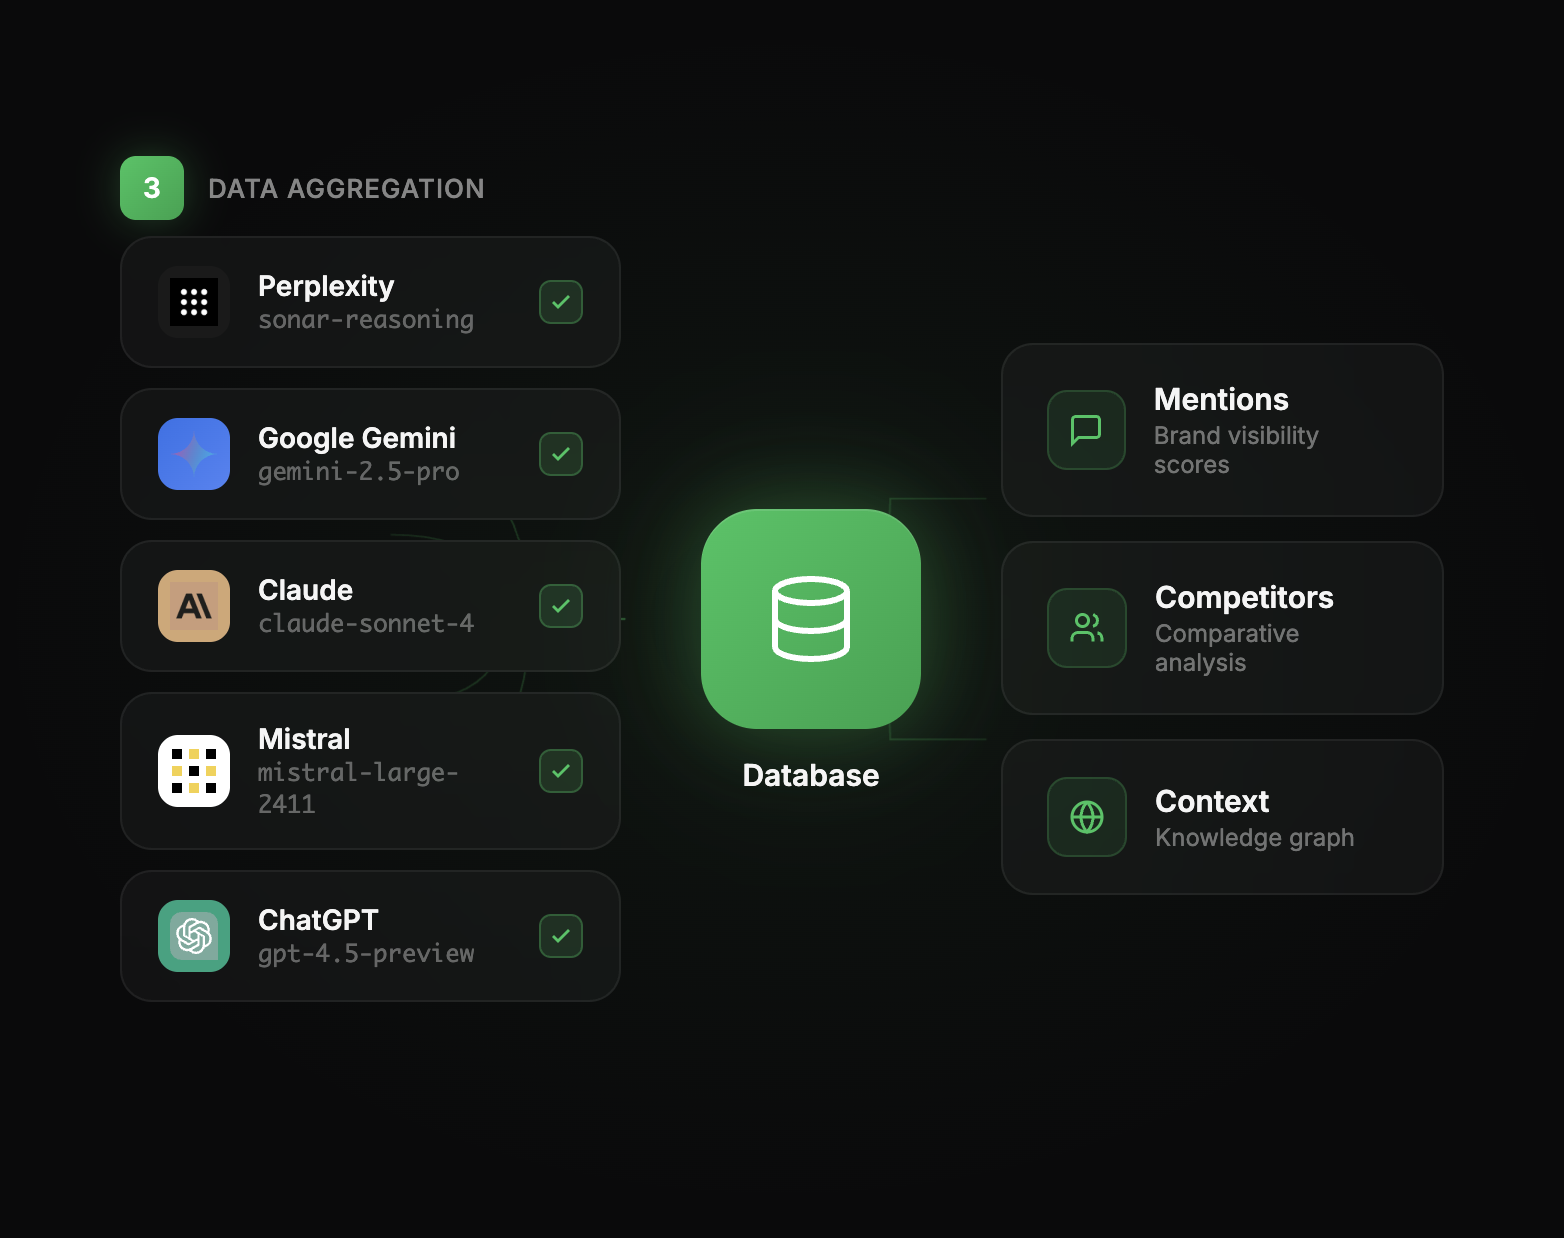
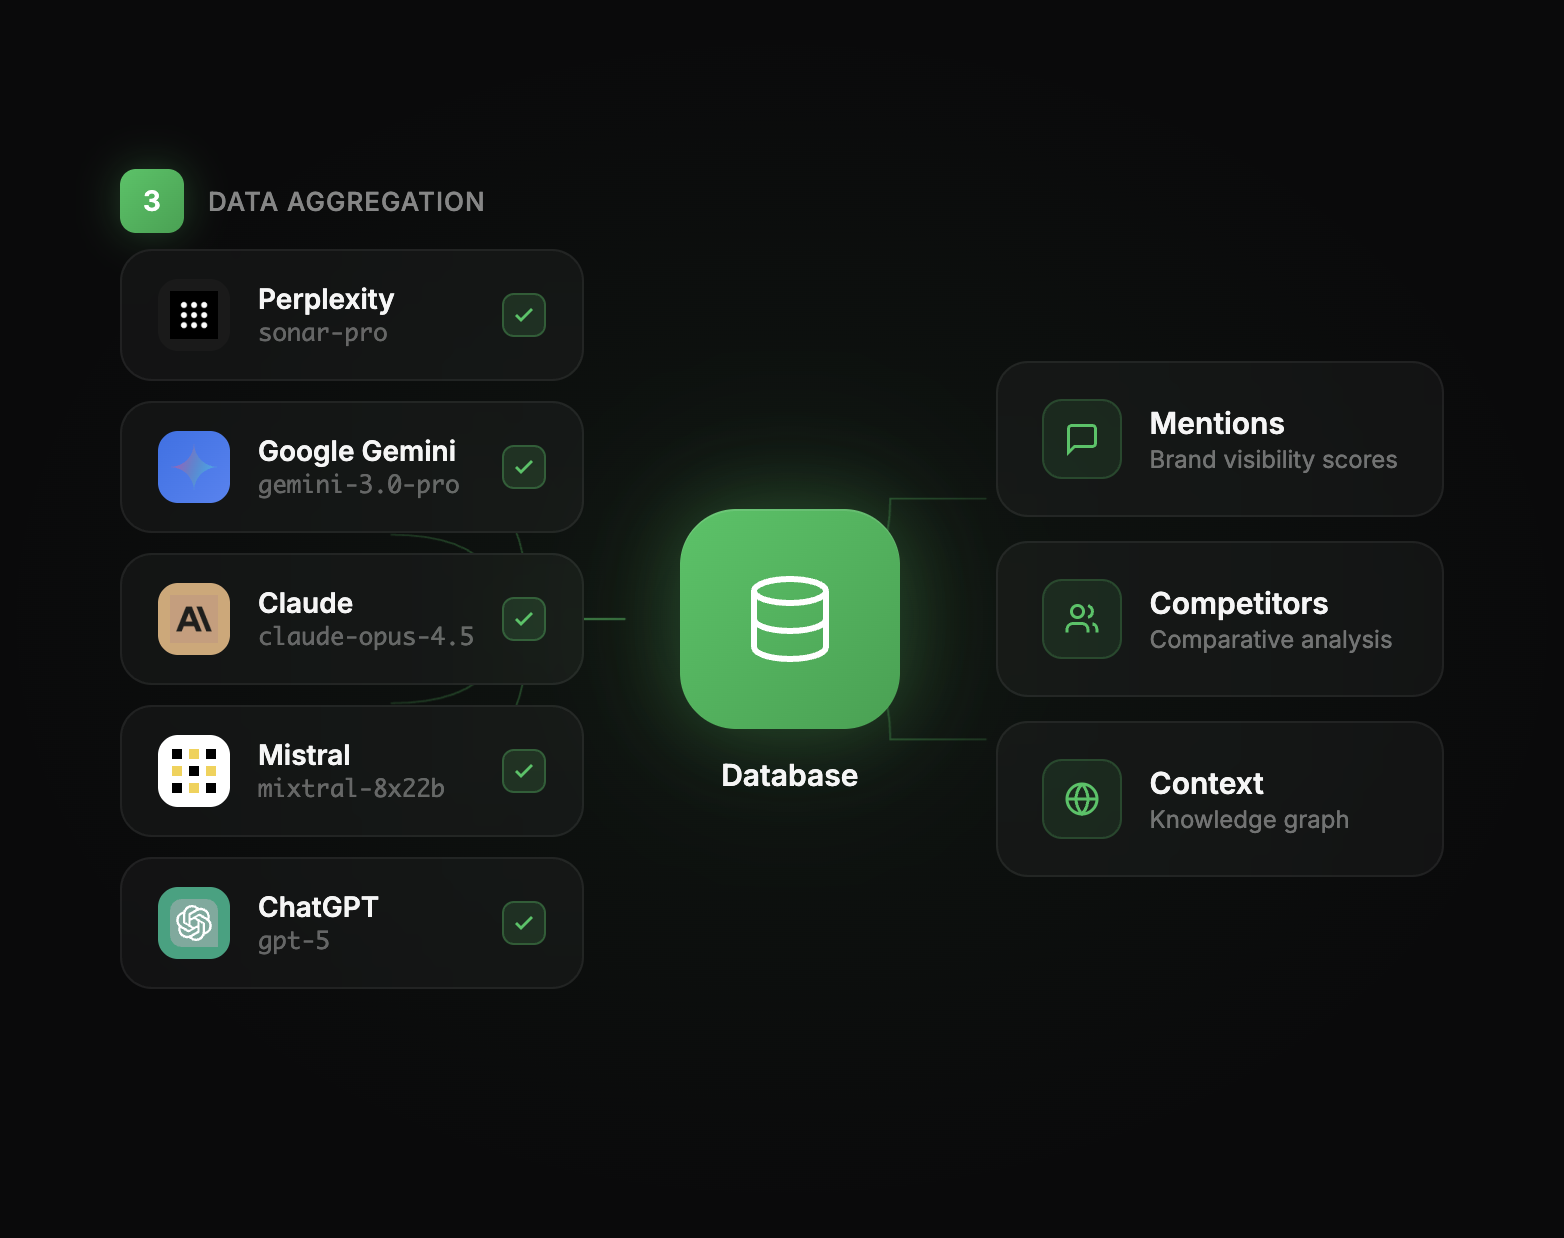
Update to latest AI models (Dec 2025): GPT-5, Gemini 3.0 Pro, Claude Opus 4.5, Mixtral 8x22B

diff --git a/diagrams/diagram-2-cursor-style.html b/diagrams/diagram-2-cursor-style.html
@@ -364,7 +364,7 @@
           </div>
           <div class="model-info">
             <div class="model-name">Perplexity</div>
-            <div class="model-version">sonar-reasoning</div>
+            <div class="model-version">sonar-pro</div>
           </div>
           <div class="model-status">
             <svg width="12" height="12" viewBox="0 0 24 24" fill="none" stroke="currentColor" stroke-width="3">
@@ -379,7 +379,7 @@
           </div>
           <div class="model-info">
             <div class="model-name">Google Gemini</div>
-            <div class="model-version">gemini-2.5-pro</div>
+            <div class="model-version">gemini-3.0-pro</div>
           </div>
           <div class="model-status">
             <svg width="12" height="12" viewBox="0 0 24 24" fill="none" stroke="currentColor" stroke-width="3">
@@ -394,7 +394,7 @@
           </div>
           <div class="model-info">
             <div class="model-name">Claude</div>
-            <div class="model-version">claude-sonnet-4</div>
+            <div class="model-version">claude-opus-4.5</div>
           </div>
           <div class="model-status">
             <svg width="12" height="12" viewBox="0 0 24 24" fill="none" stroke="currentColor" stroke-width="3">
@@ -419,7 +419,7 @@
           </div>
           <div class="model-info">
             <div class="model-name">Mistral</div>
-            <div class="model-version">mistral-large-2411</div>
+            <div class="model-version">mixtral-8x22b</div>
           </div>
           <div class="model-status">
             <svg width="12" height="12" viewBox="0 0 24 24" fill="none" stroke="currentColor" stroke-width="3">
@@ -434,7 +434,7 @@
           </div>
           <div class="model-info">
             <div class="model-name">ChatGPT</div>
-            <div class="model-version">gpt-4.5-preview</div>
+            <div class="model-version">gpt-5</div>
           </div>
           <div class="model-status">
             <svg width="12" height="12" viewBox="0 0 24 24" fill="none" stroke="currentColor" stroke-width="3">

diff --git a/diagrams/diagram-3-cursor-style.html b/diagrams/diagram-3-cursor-style.html
@@ -291,7 +291,7 @@
           </div>
           <div class="model-info">
             <div class="model-name">Perplexity</div>
-            <div class="model-version">sonar-reasoning</div>
+            <div class="model-version">sonar-pro</div>
           </div>
           <div class="model-status">
             <svg width="12" height="12" viewBox="0 0 24 24" fill="none" stroke="currentColor" stroke-width="3">
@@ -306,7 +306,7 @@
           </div>
           <div class="model-info">
             <div class="model-name">Google Gemini</div>
-            <div class="model-version">gemini-2.5-pro</div>
+            <div class="model-version">gemini-3.0-pro</div>
           </div>
           <div class="model-status">
             <svg width="12" height="12" viewBox="0 0 24 24" fill="none" stroke="currentColor" stroke-width="3">
@@ -321,7 +321,7 @@
           </div>
           <div class="model-info">
             <div class="model-name">Claude</div>
-            <div class="model-version">claude-sonnet-4</div>
+            <div class="model-version">claude-opus-4.5</div>
           </div>
           <div class="model-status">
             <svg width="12" height="12" viewBox="0 0 24 24" fill="none" stroke="currentColor" stroke-width="3">
@@ -346,7 +346,7 @@
           </div>
           <div class="model-info">
             <div class="model-name">Mistral</div>
-            <div class="model-version">mistral-large-2411</div>
+            <div class="model-version">mixtral-8x22b</div>
           </div>
           <div class="model-status">
             <svg width="12" height="12" viewBox="0 0 24 24" fill="none" stroke="currentColor" stroke-width="3">
@@ -361,7 +361,7 @@
           </div>
           <div class="model-info">
             <div class="model-name">ChatGPT</div>
-            <div class="model-version">gpt-4.5-preview</div>
+            <div class="model-version">gpt-5</div>
           </div>
           <div class="model-status">
             <svg width="12" height="12" viewBox="0 0 24 24" fill="none" stroke="currentColor" stroke-width="3">

diff --git a/README.md b/README.md
@@ -82,15 +82,15 @@ Edit the HTML/CSS directly - everything is self-contained with inline styles.
 | 3 | **Database** | Data aggregation: AI responses → Mentions, Competitors, Context |
 | 4 | **Article** | Content generation: Database + Crawl + Research → AEO Article |
 
-## 🤖 AI Models Shown
+## 🤖 AI Models Shown (December 2025)
 
 | Platform | Model | Logo |
 |----------|-------|------|
-| Perplexity | sonar-reasoning | ✅ |
-| Google Gemini | gemini-2.5-pro | ✅ |
-| Claude | claude-sonnet-4 | ✅ |
-| Mistral | mistral-large-2411 | ✅ |
-| ChatGPT | gpt-4.5-preview | ✅ |
+| Perplexity | sonar-pro | ✅ |
+| Google Gemini | gemini-3.0-pro | ✅ |
+| Claude | claude-opus-4.5 | ✅ |
+| Mistral | mixtral-8x22b | ✅ |
+| ChatGPT | gpt-5 | ✅ |
 
 ## 📄 License
 
